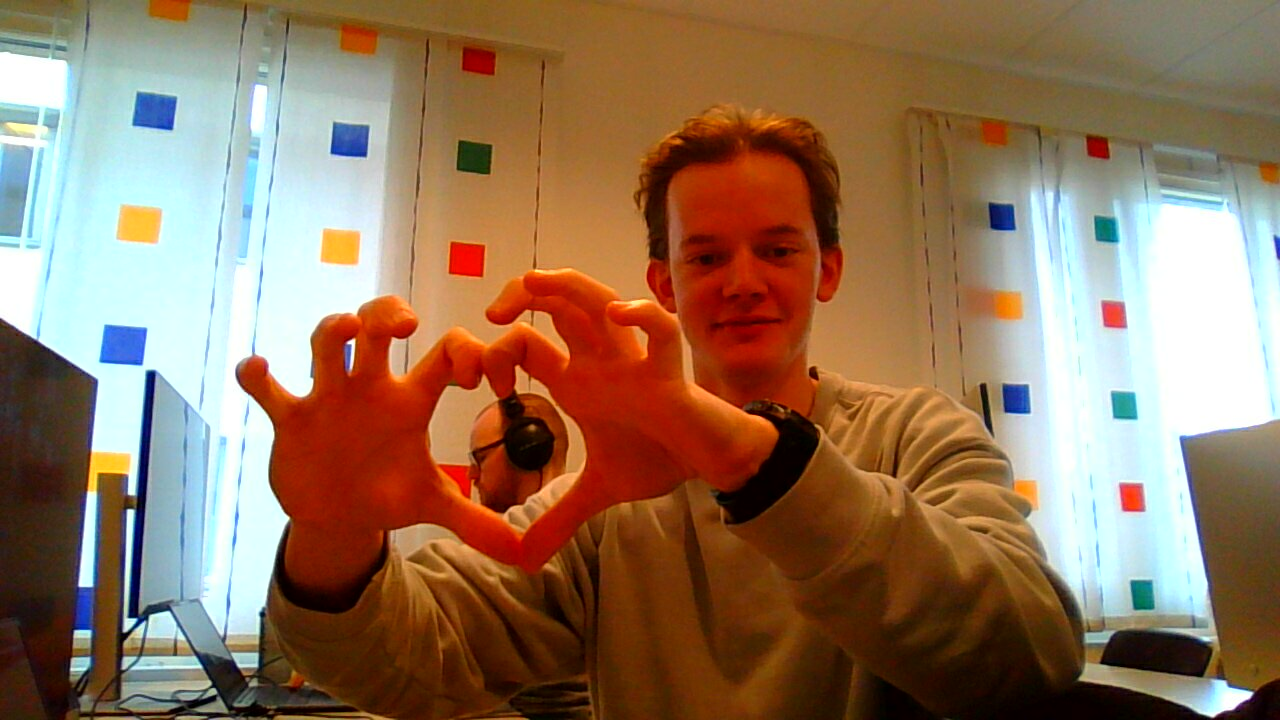
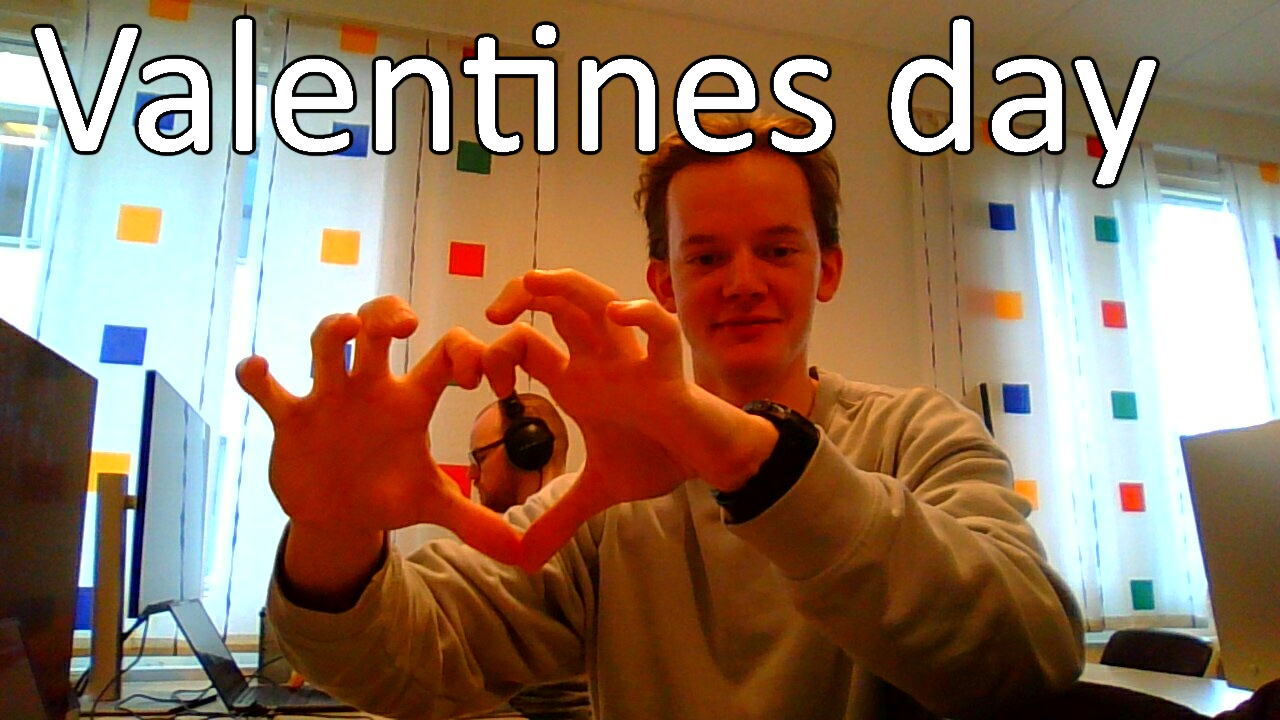
added images for popular items. Made images fit to div size

Changed region(s): [[0.0, 0.0, 0.6562, 0.2139], [0.6875, 0.0306, 0.9062, 0.275]]

diff --git a/src/App.tsx b/src/App.tsx
@@ -102,11 +102,23 @@ function App() {
               </div>
               <div className="category-items" ref={sliderRef}>
                 <div className="category-item">
-                  Jogeir Johhnyson and The Scripts
+                  <img src="/src/assets/hispanic-cultural.png" />
                 </div>
-                <div className="category-item">The Drage vs The Liavågs</div>
-                <div className="category-item">The Drage vs The Liavågs</div>
-                <div className="category-item">The Drage vs The Liavågs</div>
+                <div className="category-item">
+                  <img src="/src/assets/beach-sunset.png" />
+                </div>
+                <div className="category-item">
+                  <img
+                    src="/src/assets/lord-of-the-rings-triology.png"
+                    alt="lord of the rings triology poster"
+                  />
+                </div>
+                <div className="category-item">
+                  <img
+                    src="/src/assets/cosplay-convention.png"
+                    alt="cosplay convention image"
+                  />
+                </div>
                 <div className="category-item">The Drage vs The Liavågs</div>
                 <div className="category-item">
                   <img src="/src/assets/jogeirHeart.jpg"></img>

diff --git a/src/css/Slider.css b/src/css/Slider.css
@@ -15,7 +15,14 @@
   padding: 6rem 2rem;
   overflow-x: auto;
   box-sizing: border-box;
-  border: 2px solid blue;
+  background-color: #e3fded;
+  border: 2px solid grey;
+  border-radius: 30px;
+}
+
+.event-popular div {
+  max-height: 350px;
+  overflow: hidden;
 }
 
 p .event-popular::-webkit-scrollbar {
@@ -33,7 +40,7 @@ p .event-popular::-webkit-scrollbar {
   display: flex;
   flex-wrap: nowrap;
   flex-direction: row;
-  width: 900px;
+  width: 100rem;
   overflow-x: auto;
   scrollbar-width: none;
 }
@@ -52,8 +59,8 @@ p .event-popular::-webkit-scrollbar {
 }
 
 .event-popular img {
-  width: 400px;
-  height: auto;
+  width: 100%;
+  height: 100%;
 }
 
 .arrow {
@@ -98,8 +105,9 @@ p .event-popular::-webkit-scrollbar {
 
 .arrow-left-button img,
 .arrow-right-button img {
-  max-width: 12px;
-  max-height: auto;
+  width: 12px;
+  height: 12px;
+  object-fit: contain;
 }
 
 .scroll-left,